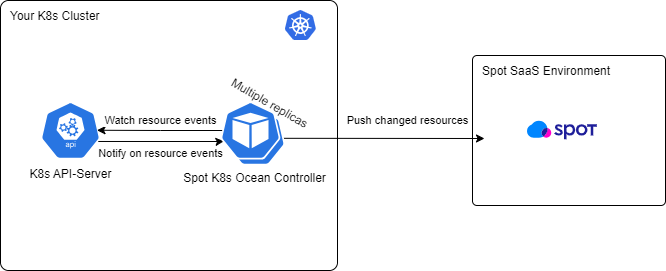
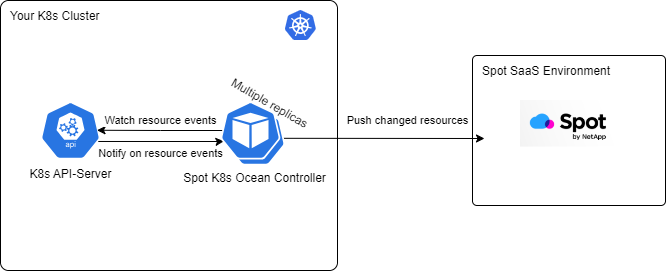
Pic v2 (#4082)
* Update README.md

* Add files via upload

Changed region(s): [[0.7808, 0.4133, 0.9309, 0.5314]]

diff --git a/src/docs/ocean/tutorials/ocean-controller-v2/README.md b/src/docs/ocean/tutorials/ocean-controller-v2/README.md
@@ -4,7 +4,8 @@ The Ocean Controller for **AWS K8s** is a pod that resides inside your Kubernete
 
 Ocean Controller Version 2 comes with two replicas out-of-the-box. You can add further replicas as required. 
 
-![Ocean-controller-multiples](https://github.com/spotinst/help/assets/159915991/42ff4102-589b-40bd-8293-723114ca8718)
+![Ocean-controller-multiples](https://github.com/spotinst/help/assets/159915991/90e2a5ab-f724-4297-914a-186ef4e1b803)
+
 
 The Ocean Controller offers the following functionality and benefits: 
 
